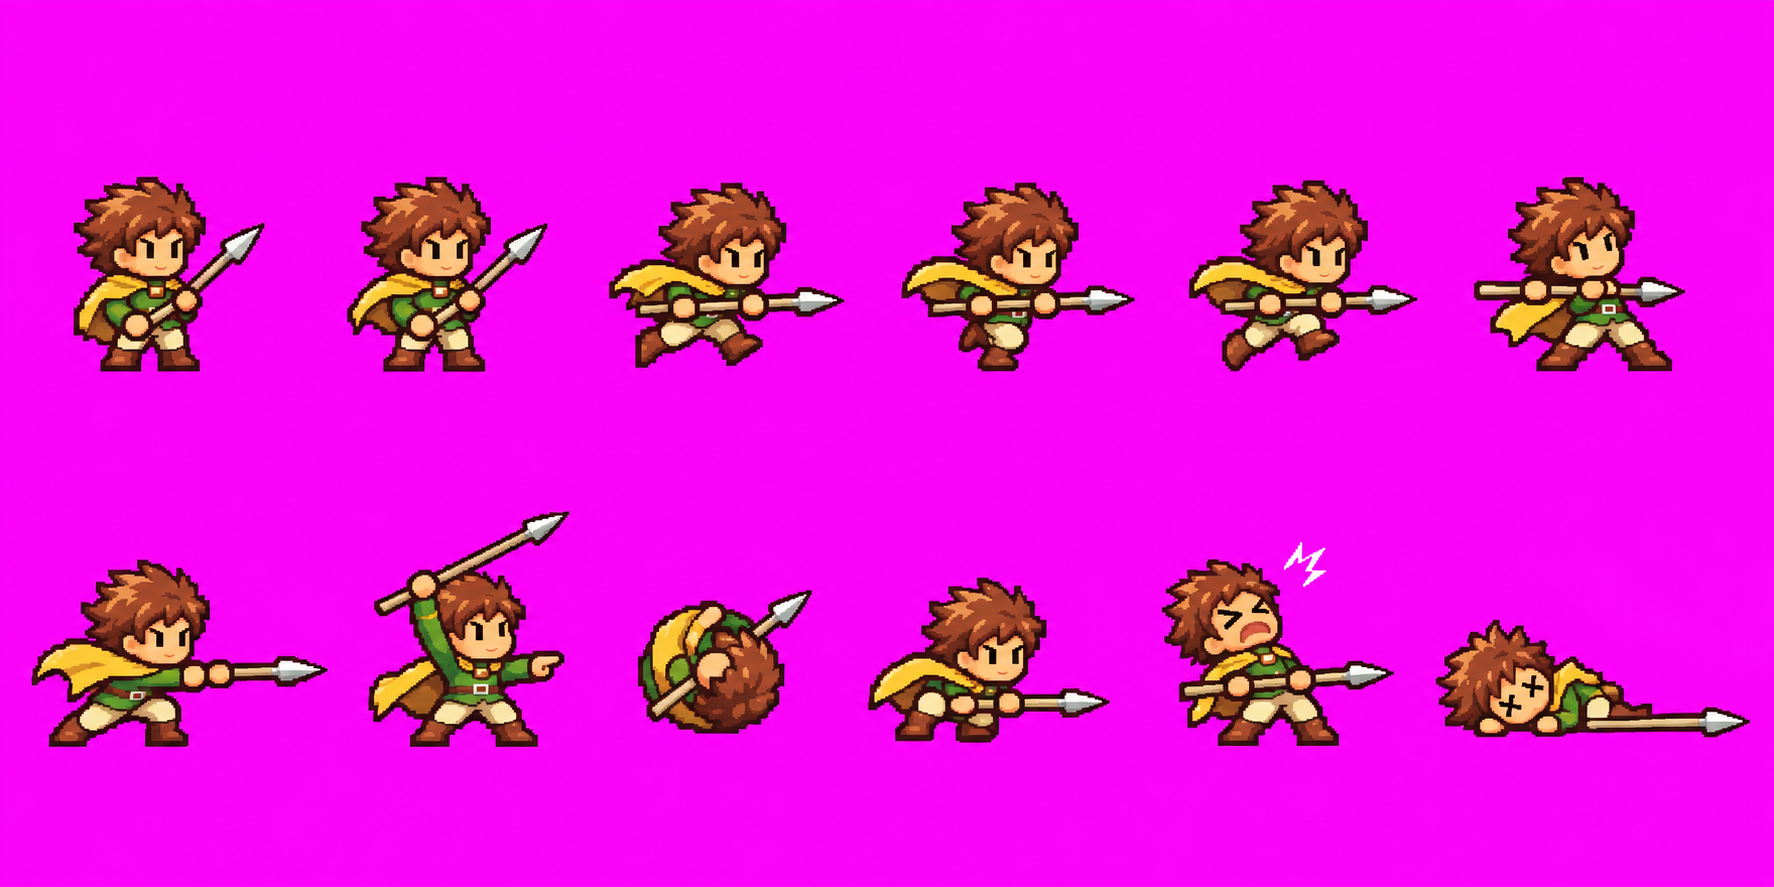
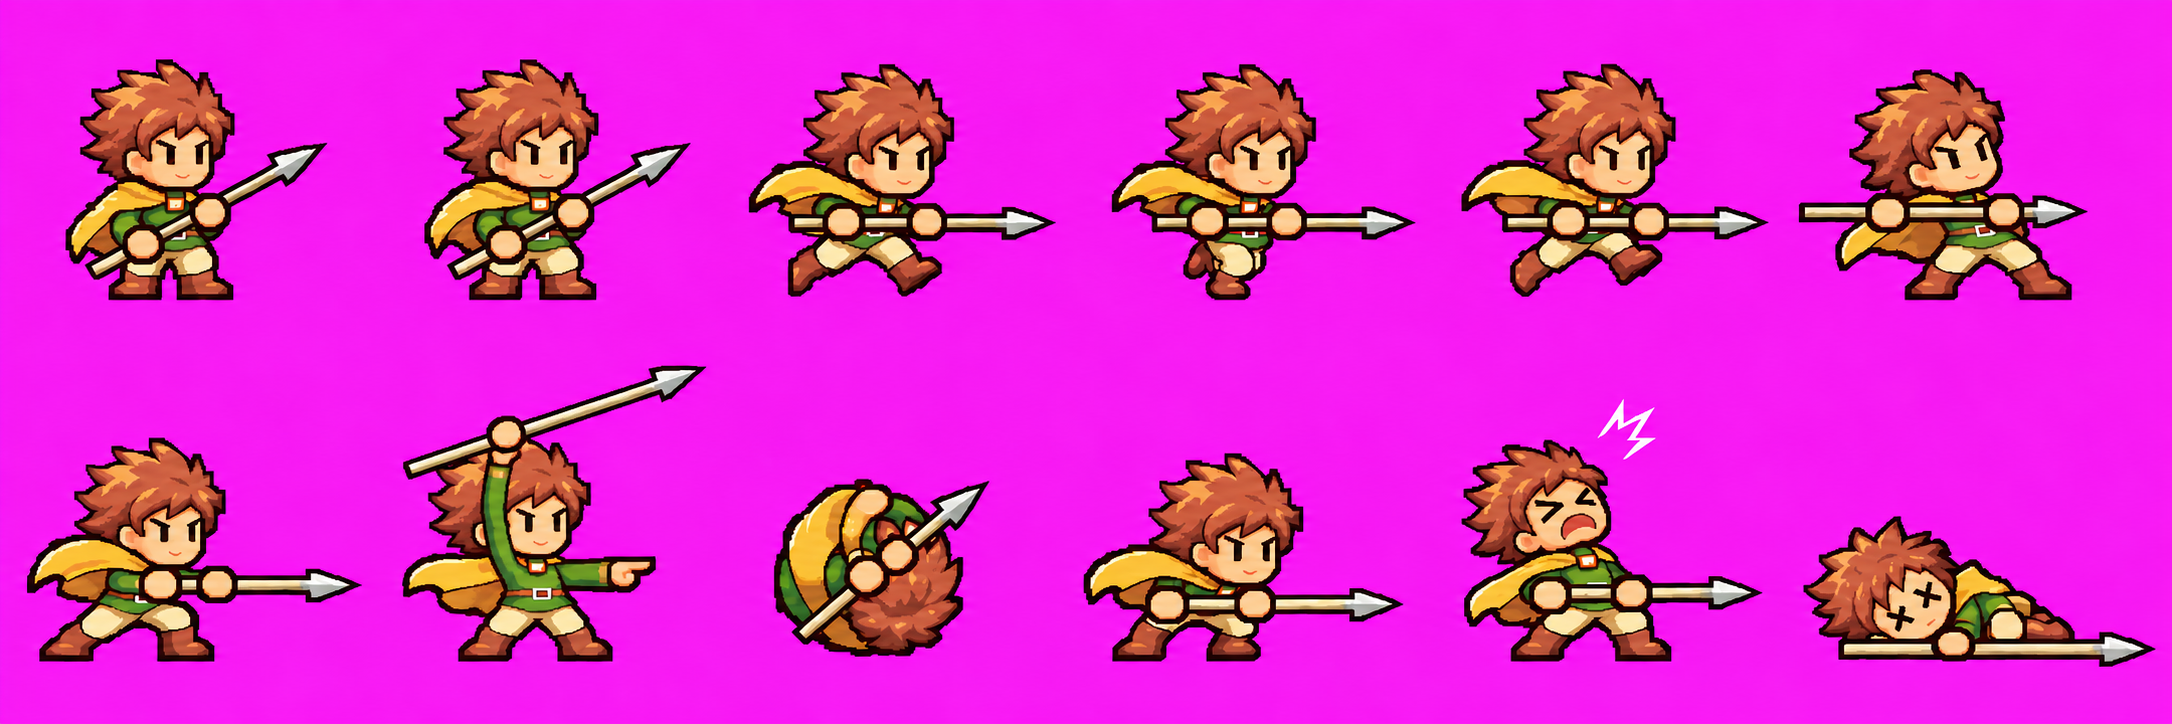
换上重出的枪图（枪杆全直、大招单手举枪）
Claude-Session: https://claude.ai/code/session_015MetZpZfHySQWDEPDS41Tu

diff --git a/tools/pixel/build_hero4.py b/tools/pixel/build_hero4.py
@@ -73,7 +73,7 @@ SRC = [('hero_sb', [('sword', 0), ('bow', 2)], False), ('hero_spear', [('spear',
 sheets = {}
 for name, sets, dots in SRC:
   path = P('src', name + '.png')
-  if name == 'hero_spear': path = straighten(path)
+  # if name == 'hero_spear': path = straighten(path)   # 11/21 枪图已重出、枪杆是直的，不再需要（留着备用，坐标只对旧图有效）
   R = frames(clean_small(path) if dots else path)
   assert all(len(r) == 6 for r in R), (name, [len(r) for r in R])
   for w, r0 in sets:
